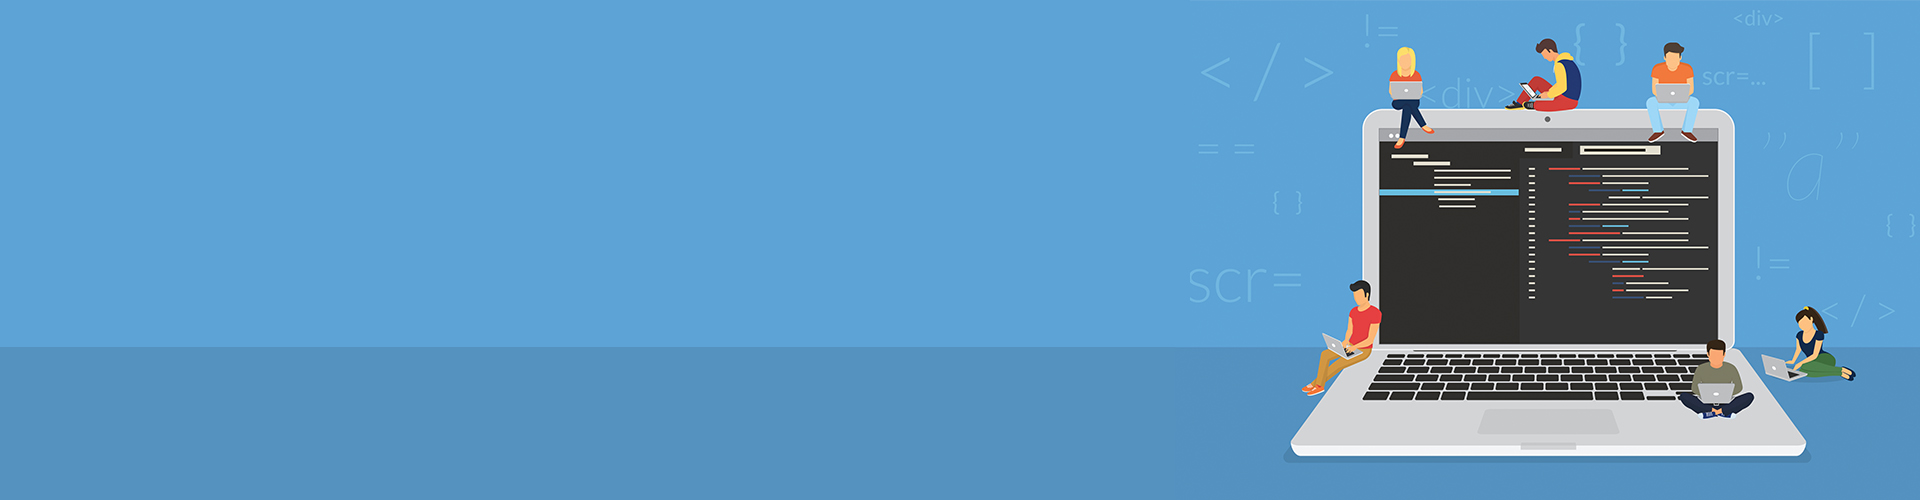
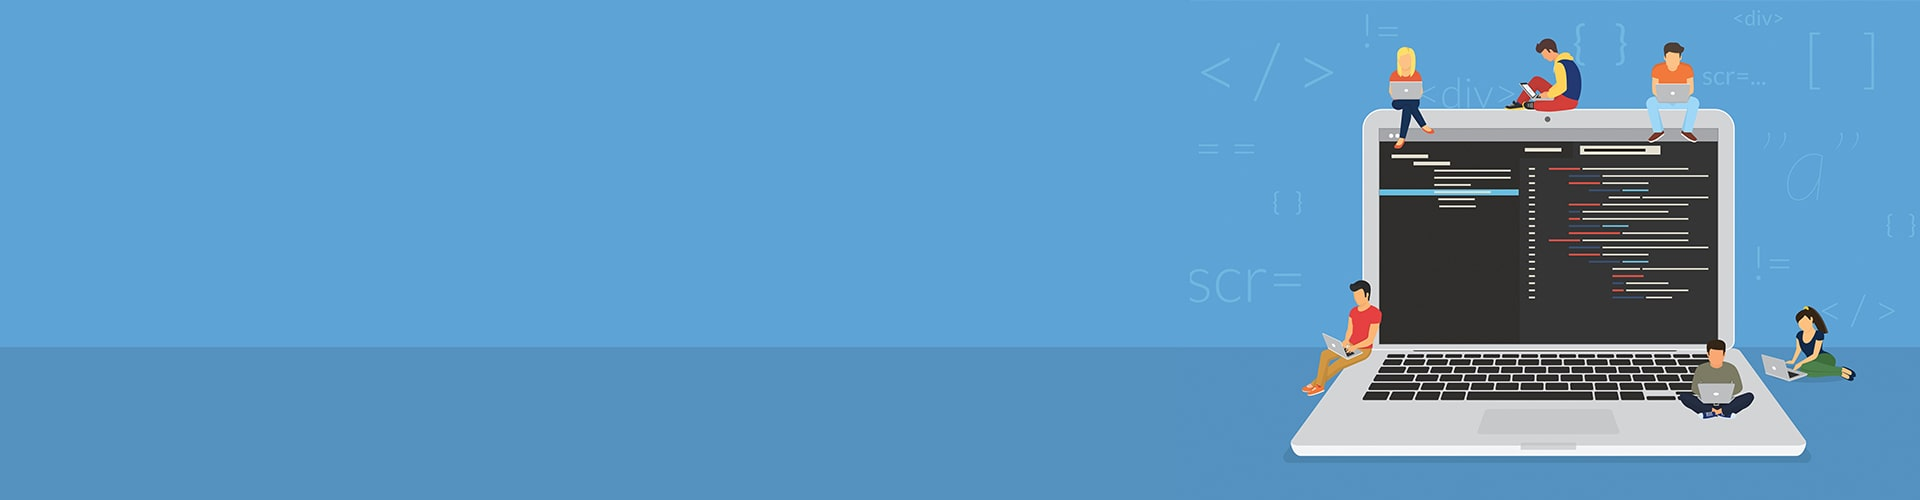
optimize images size

diff --git a/index.html b/index.html
@@ -4,28 +4,11 @@
     <title>i achieve</title>
     <meta name="description" content="i achieve dev developer programmer" />
     <meta charset="utf-8" />
-    <meta
-      name="viewport"
-      content="width=device-width, initial-scale=1, user-scalable=no"
-    />
-    <meta
-      name="og:title"
-      property="og:title"
-      content="awesome software engineer"
-    />
+    <meta name="viewport" content="width=device-width, initial-scale=1, user-scalable=no"/>
+    <meta name="og:title" property="og:title" content="awesome software engineer"/>
     <meta name="robots" content="index" />
-    <link
-      href="https://fonts.googleapis.com/css?family=Gloria+Hallelujah&display=swap"
-      rel="stylesheet"
-    />
-    <link rel="stylesheet" href="assets/css/main.css" />
-    <link rel="stylesheet" href="https://unpkg.com/aos@next/dist/aos.css" />
     <link rel="shortcut icon" href="./images/favicon.png" />
-    <script src="assets/js//captch.js"></script>
-    <script
-      src="https://kit.fontawesome.com/f2795b618c.js"
-      crossorigin="anonymous"
-    ></script>
+    
   </head>
   <body class="is-preload">
     <section id="header">
@@ -329,6 +312,9 @@
         </section>
       </div>
     </div>
+  </body>
+      <link rel="stylesheet" href="assets/css/main.css" />
+
     <script src="assets/js/jquery.min.js"></script>
     <script src="assets/js/jquery.scrollex.min.js"></script>
     <script src="assets/js/jquery.scrolly.min.js"></script>
@@ -338,9 +324,12 @@
     <script src="assets/js/main.js"></script>
     <script src="https://unpkg.com/aos@next/dist/aos.js"></script>
     <script src="https://smtpjs.com/v3/smtp.js"></script>
-<link rel="stylesheet" href="https://cdn.jsdelivr.net/gh/fancyapps/fancybox@3.5.7/dist/jquery.fancybox.min.css" />
-<script src="https://cdn.jsdelivr.net/gh/fancyapps/fancybox@3.5.7/dist/jquery.fancybox.min.js"></script>
-
+    <link rel="stylesheet" href="https://cdn.jsdelivr.net/gh/fancyapps/fancybox@3.5.7/dist/jquery.fancybox.min.css" />
+    <script src="https://cdn.jsdelivr.net/gh/fancyapps/fancybox@3.5.7/dist/jquery.fancybox.min.js" defer></script>
+    <script src="https://kit.fontawesome.com/f2795b618c.js" crossorigin="anonymous" defer></script>
+    <link href="https://fonts.googleapis.com/css?family=Gloria+Hallelujah&display=swap" rel="stylesheet" />
+    <link rel="stylesheet" href="https://unpkg.com/aos@next/dist/aos.css" />
+    <script src="assets/js//captch.js"></script>
 
 <script>
       AOS.init({
@@ -349,5 +338,4 @@
       });
       createCaptcha();
     </script>
-  </body>
 </html>

diff --git a/assets/css/main.css b/assets/css/main.css
@@ -1,4 +1,3 @@
-/* @import url("fontawesome-all.min.css"); */
 @import url("https://fonts.googleapis.com/css?family=Lato:400,400italic,700,700italic|Source+Code+Pro:400");
 
 html, body, div, span, applet, object,
